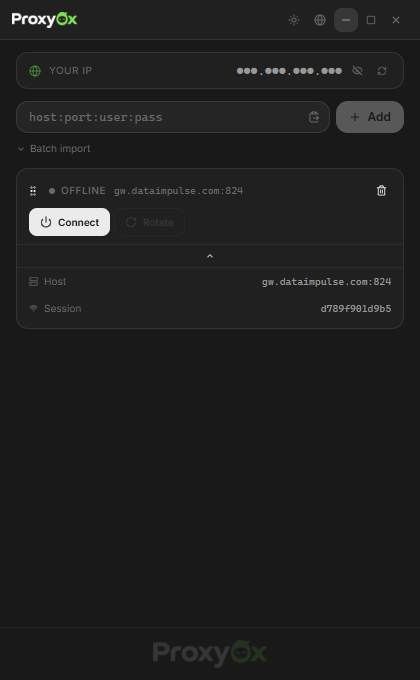
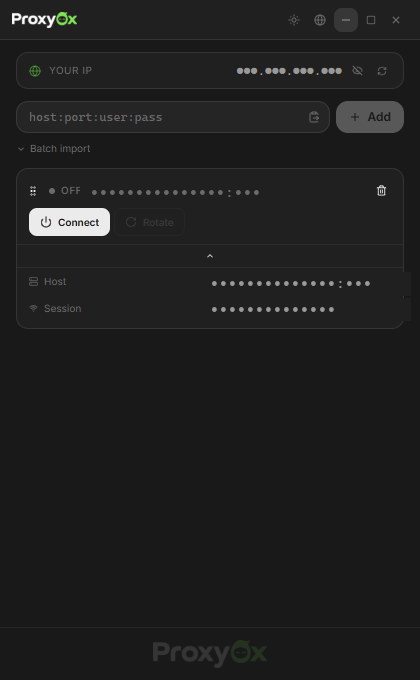
censor screenshots and keep dark theme only
- Replace sensitive data (IP, host, session, location) with bullet chars
- Remove light-theme.png and language-menu.png
- Update README to show only dark theme screenshots

Changed region(s): [[0.5881, 0.4015, 0.9286, 0.4632], [0.1857, 0.2779, 0.619, 0.3088], [0.5262, 0.4015, 0.5571, 0.4632]]

diff --git a/README.md b/README.md
@@ -20,12 +20,7 @@ Lightweight Windows proxy manager widget. Add residential proxies, rotate IPs by
 
 <p align="center">
   <img src="assets/screenshots/connected.png" alt="Connected proxy with geolocation" width="380">
-</p>
-
-<p align="center">
-  <img src="assets/screenshots/dark-empty.png" alt="Dark theme" width="280">
-  <img src="assets/screenshots/light-theme.png" alt="Light theme" width="280">
-  <img src="assets/screenshots/language-menu.png" alt="Language selector" width="280">
+  <img src="assets/screenshots/dark-empty.png" alt="Dark theme — proxy card expanded" width="380">
 </p>
 
 ## Downloads
